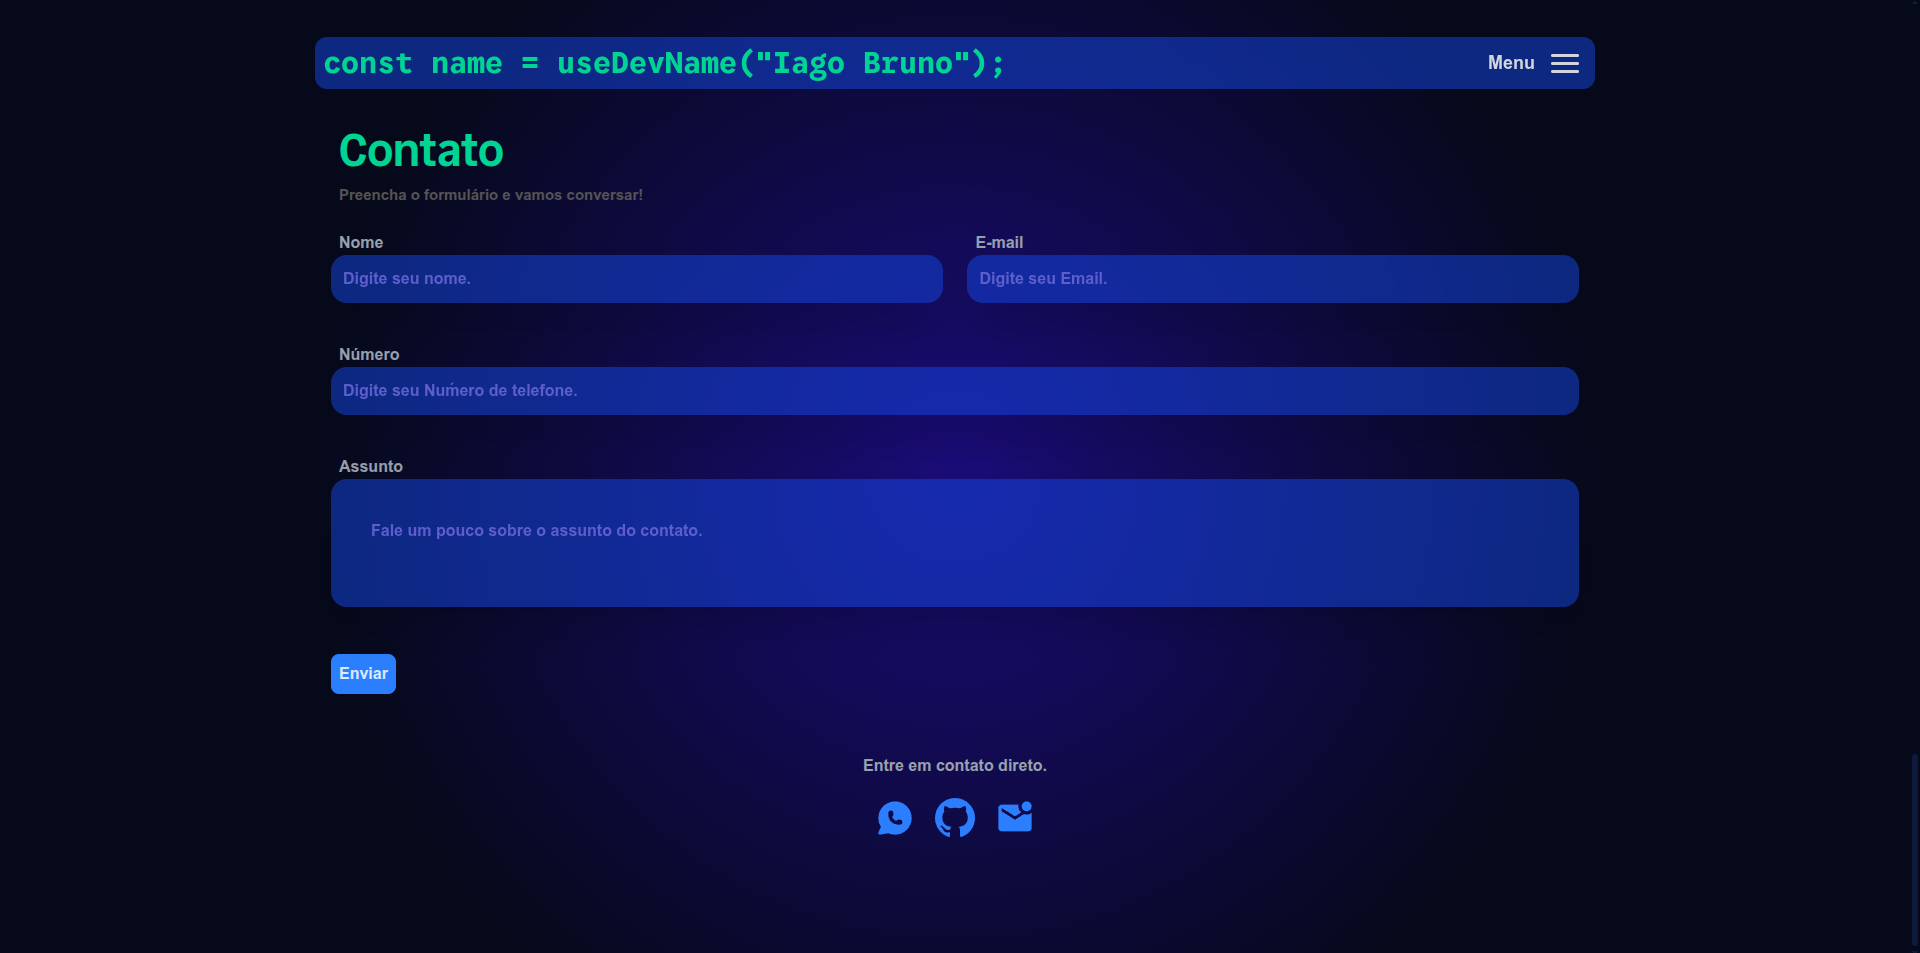
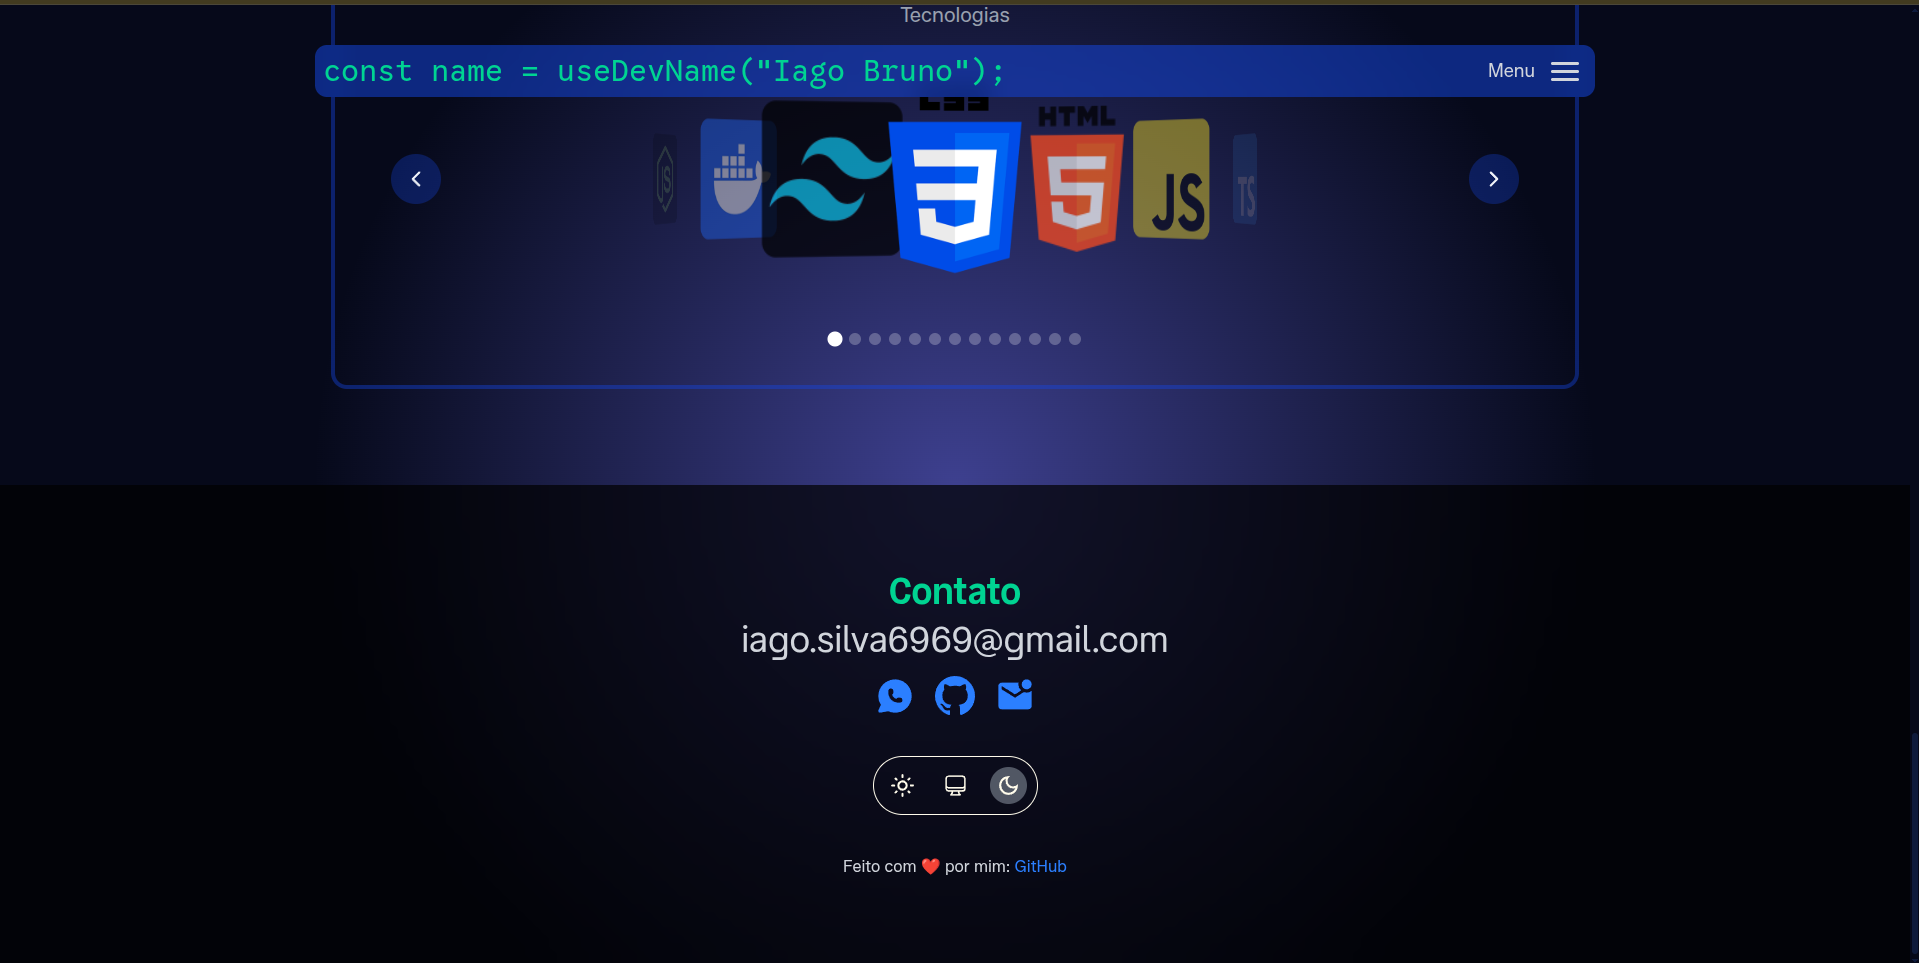
refactore em algumas partes e bug resolvido

diff --git a/src/components/Contact.tsx b/src/components/Contact.tsx
@@ -1,17 +1,47 @@
 import { TbBrandWhatsappFilled } from "react-icons/tb";
 import { BsGithub } from "react-icons/bs";
-import { MdMarkEmailUnread } from "react-icons/md";
+import {
+  MdMarkEmailUnread,
+  MdOutlineLightMode,
+  MdOutlineDarkMode,
+} from "react-icons/md";
+import { HiOutlineComputerDesktop } from "react-icons/hi2";
 import { motion, useInView } from "framer-motion";
-import { useRef } from "react";
+import { useEffect, useRef, useState } from "react";
 
 export default function Contact() {
-
   const ref = useRef(null);
   const isInView = useInView(ref, { margin: "-150px" });
 
+  const [theme, setTheme] = useState(() => {
+    return localStorage.getItem("theme") || "system";
+  });
+
+  useEffect(() => {
+    const systemPrefersDark = window.matchMedia(
+      "(prefers-color-scheme: dark)"
+    ).matches;
+
+    if (theme === "dark" || (theme === "system" && systemPrefersDark)) {
+      document.body.style.backgroundColor = "rgb(6, 9, 26)";
+      document.body.style.color = "#eef1f7";
+    } else if (
+      theme === "light" ||
+      (theme === "system" && !systemPrefersDark)
+    ) {
+      document.body.style.backgroundColor = "rgb(247, 248, 255)";
+      document.body.style.color = "#1f1d1d";
+    }
+
+    localStorage.setItem("theme", theme);
+  }, [theme]);
+
+  const handleSettings = (theme: string) => {
+    setTheme(theme);
+  };
+
   return (
     <section id="contact" className="w-full mt-20">
-
       {/* ANIMAÇÃO DA SECTION */}
       <motion.div
         ref={ref}
@@ -33,17 +63,15 @@ export default function Contact() {
         }
         className="
           h-[50vh] flex flex-col justify-center items-center px-2 
-          bg-gradient-to-t from-black/10 via-black/40 to-black/60 
-          backdrop-blur-xl shadow-xl shadow-black/30 rounded-xl
+          bg-black/70 backdrop-blur-xl shadow-xl shadow-black/30
         "
       >
-
         {/* TÍTULO COM PARALLAX */}
         <motion.h2
           initial={{ opacity: 0, y: 40 }}
           animate={isInView ? { opacity: 1, y: 0 } : {}}
           transition={{ duration: 0.7, delay: 0.2 }}
-          className="text-emerald-400 vend-sans mb-10 text-[45px]"
+          className="text-emerald-400 font-bold vend-sans mb-12 text-4xl"
         >
           Contato
         </motion.h2>
@@ -55,7 +83,7 @@ export default function Contact() {
           transition={{ duration: 0.9, delay: 0.35, ease: "easeOut" }}
           className="relative mt-[-40px]"
         >
-          <h3 className="text-gray-400 text-[48px] mb-4">
+          <h3 className="text-gray-300 text-3xl sm:text-4xl vend-sans mb-4">
             iago.silva6969@gmail.com
           </h3>
         </motion.div>
@@ -68,7 +96,6 @@ export default function Contact() {
           className="text-center w-full"
         >
           <div className="text-blue-500 flex justify-center gap-5">
-
             {/* WHATS */}
             <motion.a
               href="https://wa.me/558491454957"
@@ -104,10 +131,57 @@ export default function Contact() {
             >
               <MdMarkEmailUnread size={40} />
             </motion.a>
-
           </div>
         </motion.div>
 
+        <div className="mt-10 text-amber-50 flex gap-4 p-2.5 rounded-full border border-amber-50 relative">
+          <button
+            className={`relative ${
+              theme === "light"
+                ? "bg-gray-400/50 rounded-full p-1.5 btn-glow"
+                : "p-1.5"
+            }`}
+            onClick={() => handleSettings("light")}
+            type="button"
+          >
+            <MdOutlineLightMode size={25} />
+          </button>
+
+          <button
+            className={`relative ${
+              theme === "system"
+                ? "bg-gray-400/50 rounded-full p-1.5 btn-glow"
+                : "p-1.5"
+            }`}
+            onClick={() => handleSettings("system")}
+            type="button"
+          >
+            <HiOutlineComputerDesktop size={25} />
+          </button>
+
+          <button
+            className={`relative ${
+              theme === "dark"
+                ? "bg-gray-400/50 rounded-full p-1.5 btn-glow"
+                : "p-1.5"
+            }`}
+            onClick={() => handleSettings("dark")}
+            type="button"
+          >
+            <MdOutlineDarkMode size={25} />
+          </button>
+        </div>
+        <p className="text-gray-300 mt-10">
+          Feito com <span className="text-red-500">❤</span> por mim:{" "}
+          <a
+            className="text-blue-500"
+            target="_blank"
+            rel="noopener noreferrer"
+            href="https://github.com/iago193/react-show-case"
+          >
+            GitHub
+          </a>
+        </p>
       </motion.div>
     </section>
   );

diff --git a/src/components/Work.tsx b/src/components/Work.tsx
@@ -1,6 +1,5 @@
 import { motion } from "framer-motion";
 import { FaHtml5, FaCog } from "react-icons/fa";
-import { style } from "../styles";
 import { useCallback } from "react";
 
 export default function MyWork() {
@@ -29,10 +28,10 @@ export default function MyWork() {
       className="w-full flex flex-col md:flex-row justify-center items-start gap-10 md:gap-20 mb-20"
     >
       {/* Lado esquerdo */}
-      <div className="w-full md:w-1/2 p-4">
+      <div className="w-full md:w-1/2 p-2">
         {/* Backend */}
         <motion.div
-          className="bg-blue-700/50 p-10 shadow-2xl text-amber-50 w-full min-w-[350px] max-w-[600px] rounded-2xl relative"
+          className="bg-blue-700/50 p-10 text-amber-50 w-full min-w-[350px] max-w-[600px] rounded-2xl relative"
           initial={{ opacity: 0, x: -80 }}
           whileInView={{ opacity: 1, x: 0 }}
           transition={{ duration: 0.8, ease: "easeOut" }}
@@ -49,8 +48,8 @@ export default function MyWork() {
           <div className="text-emerald-400 absolute top-6 right-8">
             <FaCog size={60} />
           </div>
-          <h2 className={`${style.work.headerStyle}`}>Backend</h2>
-          <p className={`${style.work.paragraph}`}>
+          <h2 className={`text-emerald-400 vend-sans font-bold text-4xl`}>Backend</h2>
+          <p className={`mt-10 text-md`}>
             Atuo na integração entre o client-side e o banco de dados por meio
             de APIs bem estruturadas e escaláveis. Dou ênfase à performance das
             aplicações, utilizando recursos como programação assíncrona,
@@ -63,7 +62,7 @@ export default function MyWork() {
 
         {/* Frontend */}
         <motion.div
-          className="bg-blue-700/50 shadow-2xl p-10 mt-5 text-amber-50 w-full min-w-[350px] max-w-[600px] rounded-2xl relative"
+          className="bg-blue-700/50 p-10 mt-5 text-amber-50 w-full min-w-[350px] max-w-[600px] rounded-2xl relative"
           initial={{ opacity: 0, x: -80 }}
           whileInView={{ opacity: 1, x: 0 }}
           transition={{ duration: 0.8, delay: 0.2, ease: "easeOut" }}
@@ -80,8 +79,8 @@ export default function MyWork() {
           <div className="text-emerald-400 absolute top-6 right-8">
             <FaHtml5 size={60} />
           </div>
-          <h2 className={`${style.work.headerStyle}`}>Frontend</h2>
-          <p className={`${style.work.paragraph}`}>
+          <h2 className={`text-emerald-400 vend-sans font-bold text-4xl`}>Frontend</h2>
+          <p className={`mt-10 text-md`}>
             Desenvolvo interfaces modernas, responsivas e de alta performance,
             com foco em interatividade e experiência do usuário. Utilizo
             componentes reutilizáveis e estilos consistentes, sempre seguindo
@@ -101,8 +100,8 @@ export default function MyWork() {
         transition={{ duration: 0.8, delay: 0.4, ease: "easeOut" }}
         viewport={{ once: true }}
       >
-        <h1 className="text-emerald-400 vend-sans text-[45px]">Meu Trabalho</h1>
-        <p className={`${style.work.paragraph}`}>
+        <h1 className="text-emerald-400 vend-sans font-bold text-4xl">Meu Trabalho</h1>
+        <p className={`mt-10 text-lg`}>
           Sou desenvolvedor Full Stack focado em criar aplicações web modernas e
           eficientes. Trabalho com JavaScript e TypeScript, utilizando Node.js
           no backend e React no frontend. Tenho experiência no desenvolvimento
@@ -113,9 +112,10 @@ export default function MyWork() {
           Node.js.
         </p>
 
-        <button className="mt-20 gradient-bg rounded-full text-gray-300 px-4 py-2 shadow-2xl transition-transform duration-200 hover:scale-105">
+        <button className="mt-20 transition-transform duration-200 hover:scale-105">
           <a
             href="/Curriculo_Iago_Bruno.pdf"
+            className="rounded-full p-4 py-3 shadow-2xl bg-blue-400 hover:bg-blue-600 transition duration-300 text-amber-50"
             target="_blank"
             rel="noopener noreferrer"
           >

diff --git a/src/App.css b/src/App.css
@@ -1,5 +1,6 @@
 @import url("https://fonts.googleapis.com/css2?family=Vend+Sans:ital,wght@0,300..700;1,300..700&display=swap");
 @import url("https://fonts.googleapis.com/css2?family=Google+Sans+Code:ital,wght@0,300..800;1,300..800&display=swap");
+@import url("https://fonts.googleapis.com/css2?family=Zalando+Sans:ital,wght@0,200..900;1,200..900&display=swap");
 @import "tailwindcss";
 
 .vend-sans {
@@ -18,17 +19,17 @@
 
 @layer base {
   body {
-    background-color: rgb(6, 9, 26);
     background-attachment: fixed;
+    transition: background-color 300ms ease-in-out;
     background-image: radial-gradient(
       circle at center,
-      #290ec48f 0%,
+      #696beb8f 0%,
       rgba(0, 0, 0, 0) 60%
     );
     background-repeat: no-repeat;
     background-size: cover;
-    font-family: "Inter", "Fira Code", sans-serif;
-    font-weight: bold;
+    font-family: "Zalando Sans", sans-serif;
+    font-weight: 400;
   }
 
   html {
@@ -162,5 +163,29 @@
     display: block;
     animation: bubbleImageRadius 7s ease-in-out infinite;
   }
+}
 
+@keyframes btnGlow {
+  0% {
+    transform: scale(0);
+    opacity: 0.7;
+  }
+  50% {
+    transform: scale(1.5);
+    opacity: 0.3;
+  }
+  100% {
+    transform: scale(2);
+    opacity: 0;
+  }
+}
+
+.btn-glow::after {
+  content: "";
+  position: absolute;
+  inset: 0;
+  border-radius: 50%;
+  background: rgba(255, 255, 0, 0.4); /* cor da “partícula” */
+  animation: btnGlow 0.5s ease-out forwards;
+  pointer-events: none;
 }

diff --git a/src/components/Hero.tsx b/src/components/Hero.tsx
@@ -7,19 +7,20 @@ export default function Hero() {
       id="hero"
       className="w-full min-h-screen flex flex-col-reverse lg:flex-row justify-center items-center lg:items-start gap-10 px-6 mb-40 lg:mb-5 mt-20 sm:mt-10 md:mt-50"
     >
+
       {/* Texto */}
       <div className="lg:w-1/2 w-full text-center lg:text-left">
-        <p className="text-[#1f1f1f] vend-sans px-2 mb-4 text-md">Web Developer</p>
+        <p className="text-[#1f1f1f] px-2 mb-4 text-md">Web Developer</p>
 
-        <h2 className="text-amber-50 vend-sans text-4xl sm:text-5xl md:text-6xl lg:text-7xl">
+        <h2 className="font-bold vend-sans text-4xl sm:text-5xl md:text-6xl lg:text-7xl">
           Olá, tudo bom?
         </h2>
 
-        <h2 className="text-emerald-400 vend-sans drop-shadow-lg text-4xl sm:text-5xl md:text-6xl lg:text-7xl my-3">
+        <h2 className="text-emerald-400 font-bold vend-sans drop-shadow-lg text-4xl sm:text-5xl md:text-6xl lg:text-7xl my-3">
           Sou o Iago Bruno
         </h2>
 
-        <p className="text-[#C9C9C9] mt-6  sm:text-[16px] md:text-[18px] leading-relaxed">
+        <p className="mt-6  sm:text-md md:text-lg">
           Desenvolvedor Full Stack especializado em JavaScript/TypeScript, com
           foco em soluções robustas usando Node, React, Next e MySql/MongoDb.
         </p>

diff --git a/src/components/Projects.tsx b/src/components/Projects.tsx
@@ -96,7 +96,7 @@ export default function MyProject() {
       />
 
       <div className="w-full flex flex-col">
-        <h2 className="text-emerald-400 vend-sans text-[45px] px-4">
+        <h2 className="text-emerald-400 vend-sans text-4xl font-bold px-4">
           Projetos
         </h2>
 
@@ -118,7 +118,7 @@ export default function MyProject() {
               key={index}
               id="project-card"
               data-index={index}
-              className="bg-blue-700/50 h-[450px] w-[290px] rounded-2xl shadow-2xl mr-6 mb-6
+              className="bg-blue-700/50 h-[450px] w-[290px] rounded-2xl mr-6 mb-6
                          transition-all duration-700 ease-out"
               style={{
                 transform: `
@@ -182,7 +182,7 @@ export default function MyProject() {
                 {work.title}
               </h2>
 
-              <p className="text-[12px] text-[#C9C9C9] mt-4 px-4">
+              <p className="text-[12px] mt-4 px-4">
                 {work.description}
               </p>
 

diff --git a/src/components/NavBar.tsx b/src/components/NavBar.tsx
@@ -65,7 +65,7 @@ export function Header() {
 
       <nav
         className={`
-          text-gray-300 bg-black/50 backdrop-blur-lg font-bold rounded-b-2xl
+          text-gray-300 bg-black/50 backdrop-blur-lg font-bold rounded-b-2xl md:rounded-2xl
           overflow-hidden transition-all duration-500
           ${isNavBarOpen ? "max-h-[500px] opacity-100" : "max-h-0 opacity-0"}
         `}

diff --git a/src/styles.ts b/src/styles.ts
@@ -1,9 +1,4 @@
 const style = {
-  work: {
-    headerStyle: "text-emerald-400 text-[35px]",
-    paragraph: "mt-10 text-[15px] text-[#C9C9C9]",
-  },
-
   inputGroup: "bg-blue-700/50 backdrop-blur-md",
   previewNavBar:
     "preview-nav relative object-cover rounded-2xl opacity-0 pointer-events-none shadow-2xl transition-all duration-300 group-hover:opacity-100 group-hover:translate-y-2",

diff --git a/src/components/Skill.tsx b/src/components/Skill.tsx
@@ -65,7 +65,7 @@ export default function SkillsSection() {
   return (
     <section className="w-full mt-10 p-4" id="skills">
 
-      <h2 className={`text-emerald-400 px-2 vend-sans text-[45px]`}>
+      <h2 className={`text-emerald-400 font-bold px-2 vend-sans text-4xl`}>
         Habilidades
       </h2>
 
